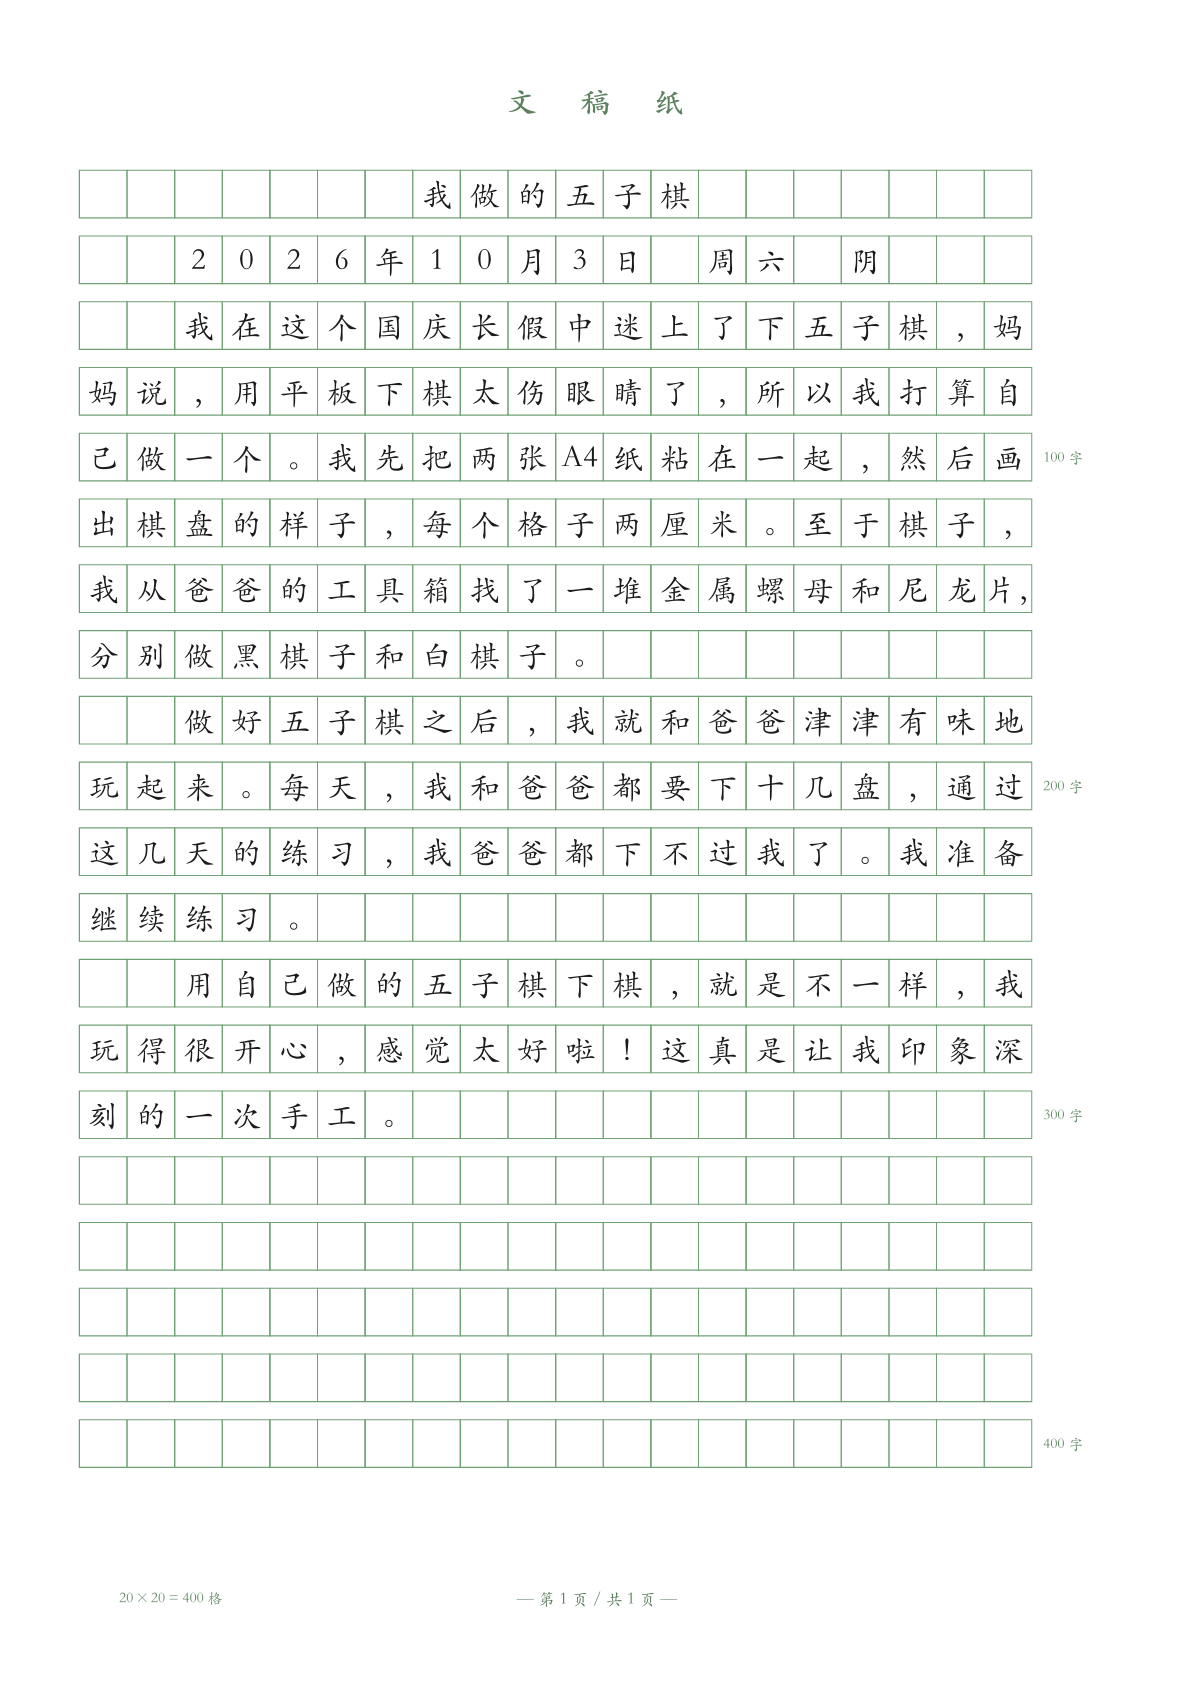
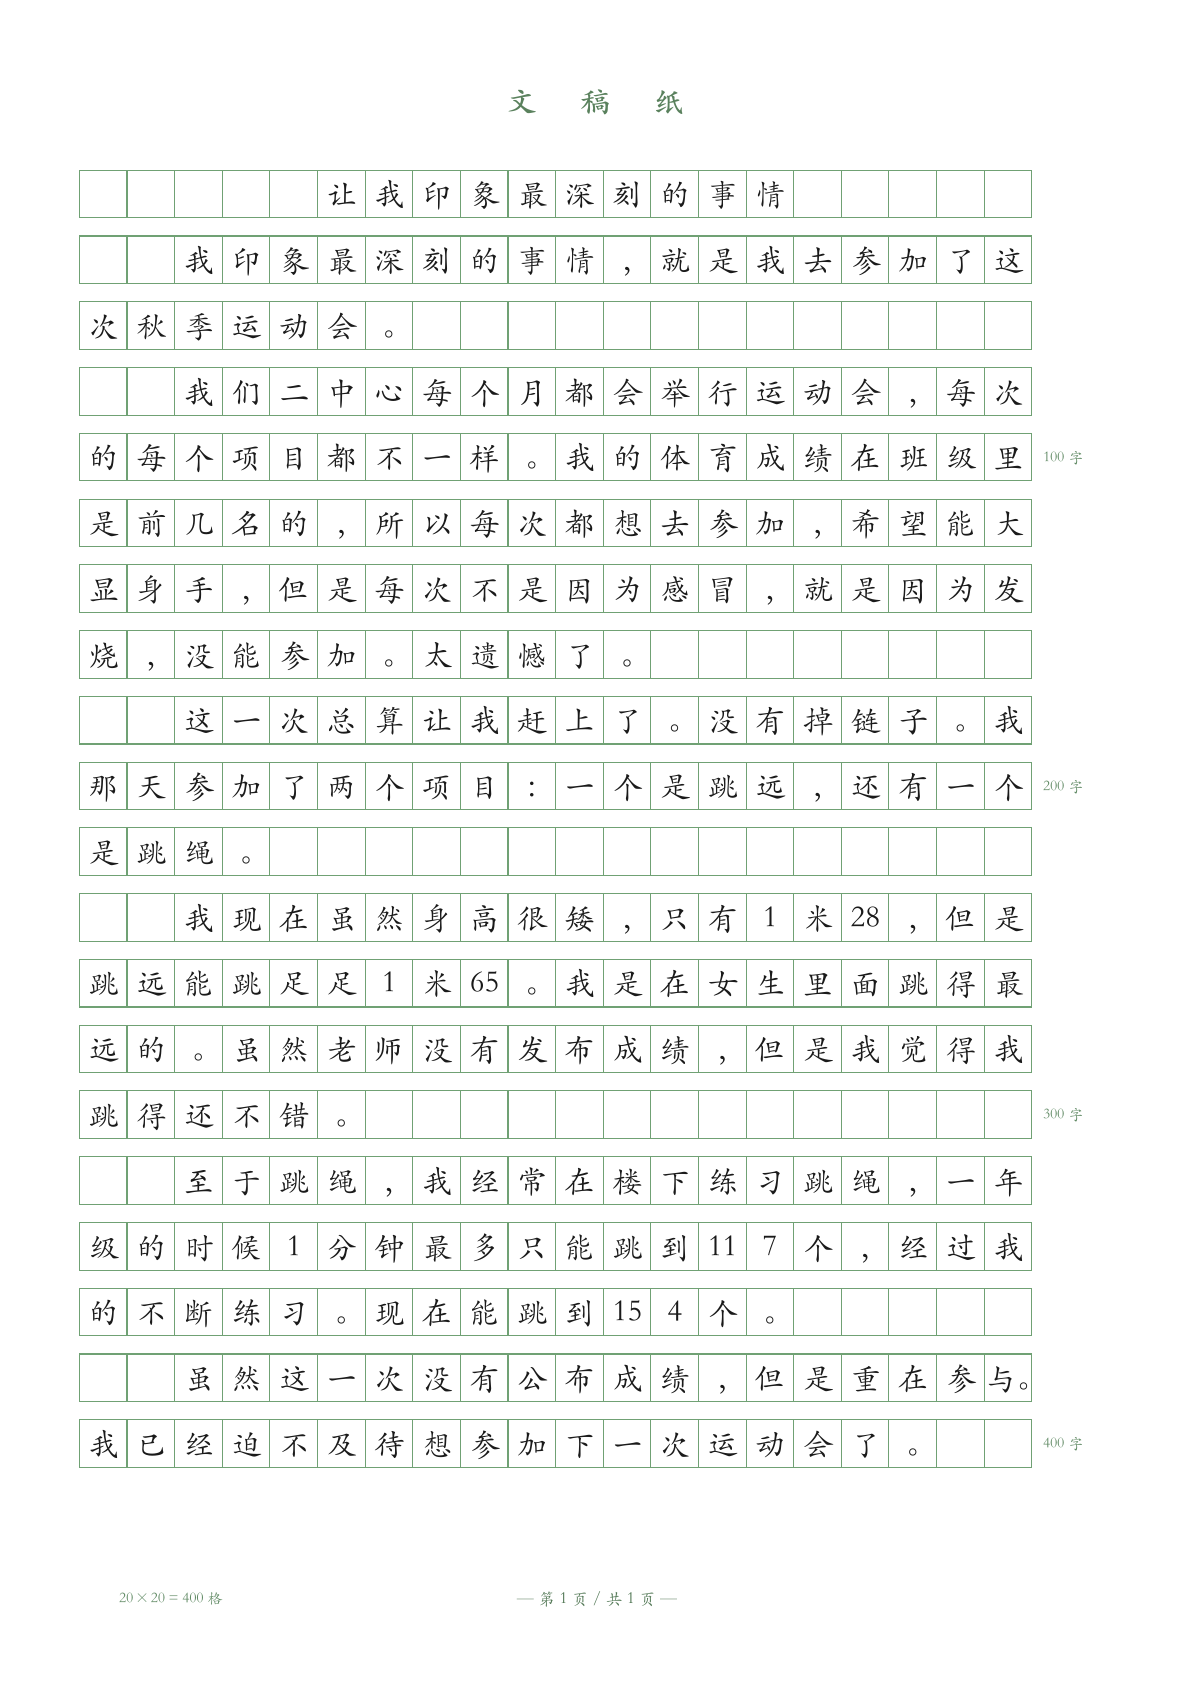
Update blog content

diff --git a/content/posts/2026/2026-10-07-yuangao-typst-manuscript-paper/index.md b/content/posts/2026/2026-10-07-yuangao-typst-manuscript-paper/index.md
@@ -67,7 +67,7 @@ AI时代，自己动手丰衣足食。
 
 ### 示例效果
 
-![20×20 文稿纸排版效果](https://earlmind.oss-cn-shanghai.aliyuncs.com/blog/20261007_211851_627_26b7f065_yuangao-demo.png?x-oss-process=image/resize,w_1200/format,webp/quality,q_80)
+![20×20 文稿纸排版效果](https://earlmind.oss-cn-shanghai.aliyuncs.com/blog/20261008_181922_802_4526ebdc_yuangao-demo.png?x-oss-process=image/resize,w_1200/format,webp/quality,q_80)
 
 ### 源码说明
 
